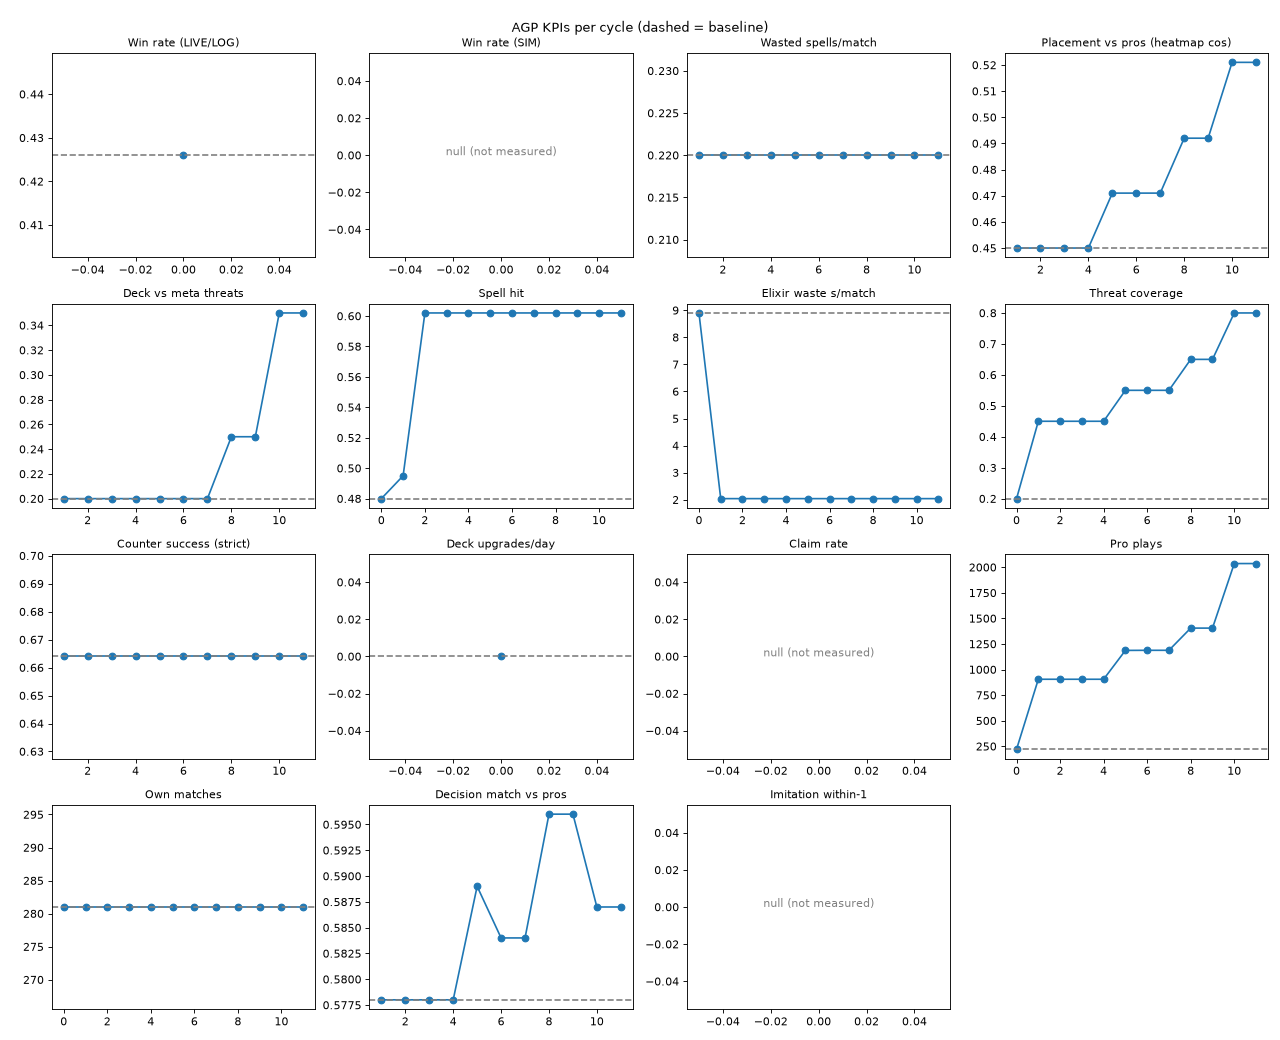
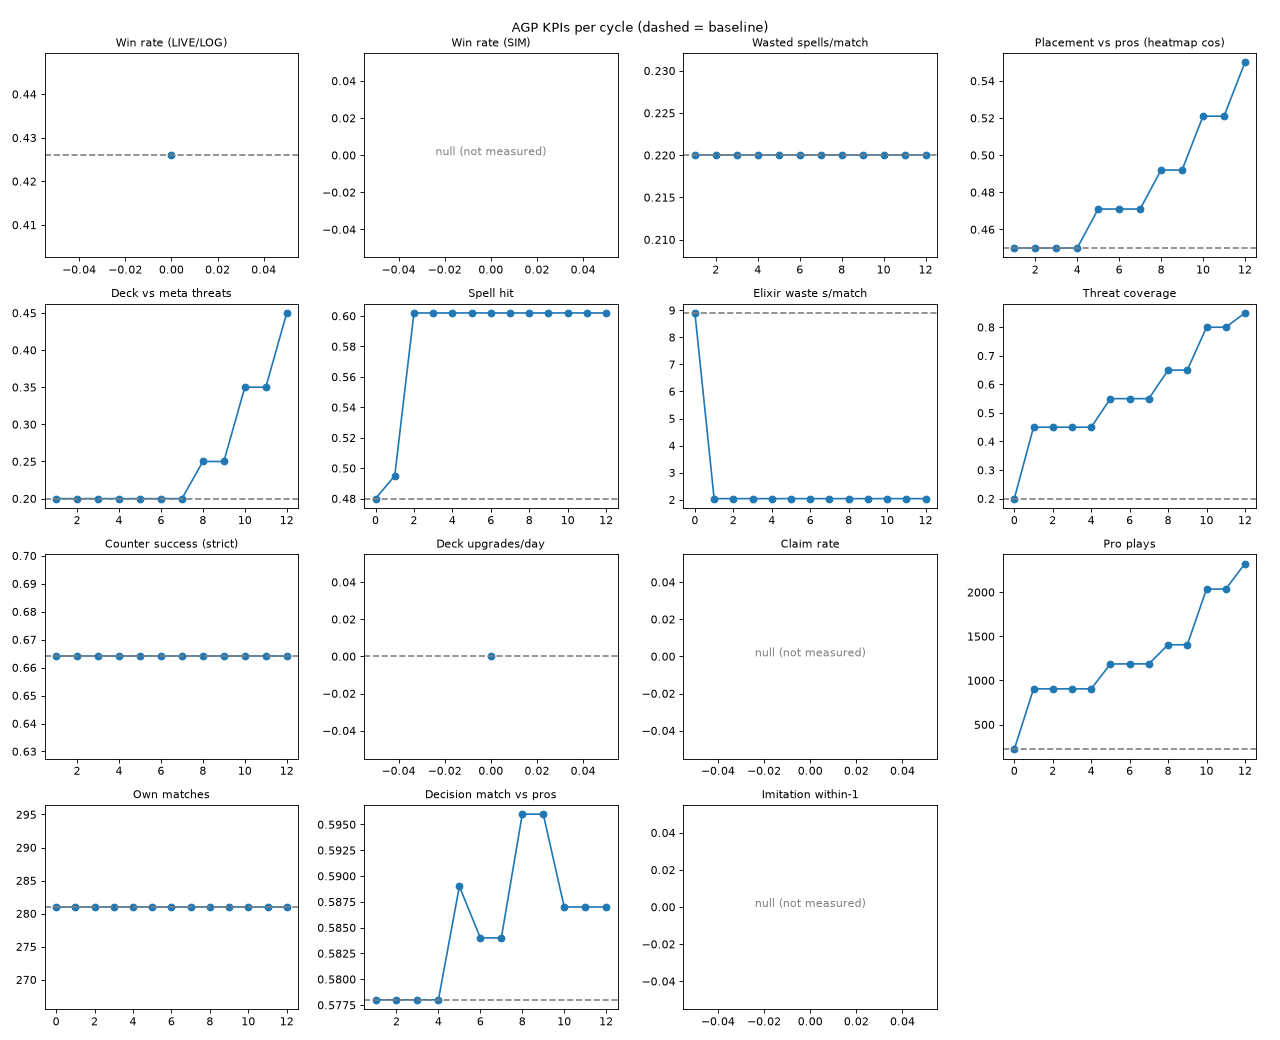
AGP progress dashboard 2026-11-01T09:30:19-08:00

diff --git a/index.html b/index.html
@@ -124,10 +124,10 @@
         <h1>AI Game Player</h1>
         <p class="lede">Progress you can watch — the AI's climb, with receipts.</p>
         <div class="meta-row">
-          <div class="chip">Cycle <strong>#11</strong></div>
-          <div class="chip">Decision <strong>REVERT</strong></div>
+          <div class="chip">Cycle <strong>#12</strong></div>
+          <div class="chip">Decision <strong>KEEP</strong></div>
           <div class="chip">Mode <strong>offline</strong></div>
-          <div class="chip">Updated <strong>2026-11-01T08:56:24-08:00</strong></div>
+          <div class="chip">Updated <strong>2026-11-01T09:26:53-08:00</strong></div>
         </div>
         <p class="lede" style="margin-top:18px;font-size:.92rem">Showing SIM / VOD / LOG metrics. Live ladder KPIs stay blank until play is greenlit — practice win rate is never mixed into live win rate.</p>
       </div>
@@ -151,7 +151,7 @@
               <th>Metric</th><th>Baseline</th><th>Current</th><th>Δ</th><th>Trend</th><th>Source</th>
             </tr>
           </thead>
-          <tbody><tr><td class="kpi-name">Win rate<div class="note">Never mix LIVE with SIM/LOG practice WR</div></td><td class="num">42.6%</td><td class="num cur"><span class="pill paused">paused</span></td><td class="num delta flat">—</td><td><span class="trend flat">flat</span></td><td><span class="src">LIVE</span></td></tr><tr><td class="kpi-name">Spell hit rate</td><td class="num">48.0%</td><td class="num cur"><span class="val">60.2%</span></td><td class="num delta up-good">+12.2 pp</td><td><span class="trend up-good">up</span></td><td><span class="src">SIM</span></td></tr><tr><td class="kpi-name">Elixir waste (s)</td><td class="num">8.9</td><td class="num cur"><span class="val">2.04</span></td><td class="num delta down-good">-6.86</td><td><span class="trend down-good">down</span></td><td><span class="src">SIM</span></td></tr><tr><td class="kpi-name">Meta/ladder threat coverage</td><td class="num">20.0%</td><td class="num cur"><span class="val">80.0%</span></td><td class="num delta up-good">+60.0 pp</td><td><span class="trend up-good">up</span></td><td><span class="src">LOG+VOD</span></td></tr><tr><td class="kpi-name">Counter success (strict)</td><td class="num">—</td><td class="num cur"><span class="val">66.4%</span></td><td class="num delta flat">—</td><td><span class="trend flat">flat</span></td><td><span class="src">LOG</span></td></tr><tr><td class="kpi-name">Deck upgrades / day</td><td class="num">0</td><td class="num cur"><span class="val">—</span></td><td class="num delta flat">—</td><td><span class="trend flat">flat</span></td><td><span class="src">LOG</span></td></tr><tr><td class="kpi-name">Reward claim rate</td><td class="num">—</td><td class="num cur"><span class="val">—</span></td><td class="num delta flat">—</td><td><span class="trend flat">flat</span></td><td><span class="src">—</span></td></tr><tr><td class="kpi-name">Pro plays learned</td><td class="num">221</td><td class="num cur"><span class="val">2036</span></td><td class="num delta up-good">+1815</td><td><span class="trend up-good">up</span></td><td><span class="src">VOD</span></td></tr><tr><td class="kpi-name">Own-match sample</td><td class="num">281</td><td class="num cur"><span class="val">281</span></td><td class="num delta flat">0</td><td><span class="trend flat">flat</span></td><td><span class="src">LOG</span></td></tr><tr><td class="kpi-name">Decision-match vs pros</td><td class="num">—</td><td class="num cur"><span class="val">58.7%</span></td><td class="num delta flat">—</td><td><span class="trend flat">flat</span></td><td><span class="src">SIM</span></td></tr><tr><td class="kpi-name">Imitation placement accuracy</td><td class="num">0.23–0.31</td><td class="num cur"><span class="val">—</span></td><td class="num delta flat">—</td><td><span class="trend flat">flat</span></td><td><span class="src">SIM</span></td></tr><tr><td class="kpi-name">Placement accuracy (SIM)</td><td class="num">—</td><td class="num cur"><span class="val">52.1%</span></td><td class="num delta flat">—</td><td><span class="trend flat">flat</span></td><td><span class="src">SIM+VOD</span></td></tr><tr><td class="kpi-name">Deck building vs meta</td><td class="num">—</td><td class="num cur"><span class="val">35.0%</span></td><td class="num delta flat">—</td><td><span class="trend flat">flat</span></td><td><span class="src">LOG+WEB</span></td></tr></tbody>
+          <tbody><tr><td class="kpi-name">Win rate<div class="note">Never mix LIVE with SIM/LOG practice WR</div></td><td class="num">42.6%</td><td class="num cur"><span class="pill paused">paused</span></td><td class="num delta flat">—</td><td><span class="trend flat">flat</span></td><td><span class="src">LIVE</span></td></tr><tr><td class="kpi-name">Spell hit rate</td><td class="num">48.0%</td><td class="num cur"><span class="val">60.2%</span></td><td class="num delta up-good">+12.2 pp</td><td><span class="trend up-good">up</span></td><td><span class="src">SIM</span></td></tr><tr><td class="kpi-name">Elixir waste (s)</td><td class="num">8.9</td><td class="num cur"><span class="val">2.04</span></td><td class="num delta down-good">-6.86</td><td><span class="trend down-good">down</span></td><td><span class="src">SIM</span></td></tr><tr><td class="kpi-name">Meta/ladder threat coverage</td><td class="num">20.0%</td><td class="num cur"><span class="val">85.0%</span></td><td class="num delta up-good">+65.0 pp</td><td><span class="trend up-good">up</span></td><td><span class="src">LOG+VOD</span></td></tr><tr><td class="kpi-name">Counter success (strict)</td><td class="num">—</td><td class="num cur"><span class="val">66.4%</span></td><td class="num delta flat">—</td><td><span class="trend flat">flat</span></td><td><span class="src">LOG</span></td></tr><tr><td class="kpi-name">Deck upgrades / day</td><td class="num">0</td><td class="num cur"><span class="val">—</span></td><td class="num delta flat">—</td><td><span class="trend flat">flat</span></td><td><span class="src">LOG</span></td></tr><tr><td class="kpi-name">Reward claim rate</td><td class="num">—</td><td class="num cur"><span class="val">—</span></td><td class="num delta flat">—</td><td><span class="trend flat">flat</span></td><td><span class="src">—</span></td></tr><tr><td class="kpi-name">Pro plays learned</td><td class="num">221</td><td class="num cur"><span class="val">2325</span></td><td class="num delta up-good">+2104</td><td><span class="trend up-good">up</span></td><td><span class="src">VOD</span></td></tr><tr><td class="kpi-name">Own-match sample</td><td class="num">281</td><td class="num cur"><span class="val">281</span></td><td class="num delta flat">0</td><td><span class="trend flat">flat</span></td><td><span class="src">LOG</span></td></tr><tr><td class="kpi-name">Decision-match vs pros</td><td class="num">—</td><td class="num cur"><span class="val">58.7%</span></td><td class="num delta flat">—</td><td><span class="trend flat">flat</span></td><td><span class="src">SIM</span></td></tr><tr><td class="kpi-name">Imitation placement accuracy</td><td class="num">0.23–0.31</td><td class="num cur"><span class="val">—</span></td><td class="num delta flat">—</td><td><span class="trend flat">flat</span></td><td><span class="src">SIM</span></td></tr><tr><td class="kpi-name">Placement accuracy (SIM)</td><td class="num">—</td><td class="num cur"><span class="val">55.0%</span></td><td class="num delta flat">—</td><td><span class="trend flat">flat</span></td><td><span class="src">SIM+VOD</span></td></tr><tr><td class="kpi-name">Deck building vs meta</td><td class="num">—</td><td class="num cur"><span class="val">45.0%</span></td><td class="num delta flat">—</td><td><span class="trend flat">flat</span></td><td><span class="src">LOG+WEB</span></td></tr></tbody>
         </table>
       </div>
     </section>
@@ -163,7 +163,7 @@
           <p>Placement, deck quality, counters, spell aim, elixir, upgrades</p>
         </div>
       </div>
-      <div class="axes"><div class="axis-card"><div class="axis-label">Placement accuracy</div><div class="axis-value">52.1%</div><div class="axis-meta"><span class="src">SIM+VOD</span> · SIM heatmap / VOD overlays</div></div><div class="axis-card"><div class="axis-label">Deck building vs meta</div><div class="axis-value">35.0%</div><div class="axis-meta"><span class="src">LOG+WEB</span> · Alignment to seen-opponent / meta plans</div></div><div class="axis-card"><div class="axis-label">Counters</div><div class="axis-value">66.4%</div><div class="axis-meta"><span class="src">LOG</span> · Strict counter success</div></div><div class="axis-card"><div class="axis-label">Spell aim</div><div class="axis-value">60.2%</div><div class="axis-meta"><span class="src">SIM</span> · Spell impact audit / SIM casts</div></div><div class="axis-card"><div class="axis-label">Movement / elixir</div><div class="axis-value">2.04</div><div class="axis-meta"><span class="src">SIM</span> · Seconds elixir wasted (lower better)</div></div><div class="axis-card"><div class="axis-label">Upgrades / rewards</div><div class="axis-value">paused</div><div class="axis-meta"><span class="src">LIVE</span> · LIVE paused until James greenlights play</div></div></div>
+      <div class="axes"><div class="axis-card"><div class="axis-label">Placement accuracy</div><div class="axis-value">55.0%</div><div class="axis-meta"><span class="src">SIM+VOD</span> · SIM heatmap / VOD overlays</div></div><div class="axis-card"><div class="axis-label">Deck building vs meta</div><div class="axis-value">45.0%</div><div class="axis-meta"><span class="src">LOG+WEB</span> · Alignment to seen-opponent / meta plans</div></div><div class="axis-card"><div class="axis-label">Counters</div><div class="axis-value">66.4%</div><div class="axis-meta"><span class="src">LOG</span> · Strict counter success</div></div><div class="axis-card"><div class="axis-label">Spell aim</div><div class="axis-value">60.2%</div><div class="axis-meta"><span class="src">SIM</span> · Spell impact audit / SIM casts</div></div><div class="axis-card"><div class="axis-label">Movement / elixir</div><div class="axis-value">2.04</div><div class="axis-meta"><span class="src">SIM</span> · Seconds elixir wasted (lower better)</div></div><div class="axis-card"><div class="axis-label">Upgrades / rewards</div><div class="axis-value">paused</div><div class="axis-meta"><span class="src">LIVE</span> · LIVE paused until James greenlights play</div></div></div>
     </section>
 
     <section>
@@ -203,7 +203,7 @@
     </footer>
   </div>
 <script>
-const HIST = [{"cycle": 0, "spell_hit": 0.48, "counter": null, "placement": null, "decision": null, "elixir": 8.9, "decision_tag": "BASELINE"}, {"cycle": 1, "spell_hit": 0.495, "counter": 0.664, "placement": 0.45, "decision": 0.578, "elixir": 2.04, "decision_tag": "KEEP"}, {"cycle": 2, "spell_hit": 0.602, "counter": 0.664, "placement": 0.45, "decision": 0.578, "elixir": 2.04, "decision_tag": "REVERT"}, {"cycle": 3, "spell_hit": 0.602, "counter": 0.664, "placement": 0.45, "decision": 0.578, "elixir": 2.04, "decision_tag": "KEEP"}, {"cycle": 4, "spell_hit": 0.602, "counter": 0.664, "placement": 0.45, "decision": 0.578, "elixir": 2.04, "decision_tag": "REVERT"}, {"cycle": 5, "spell_hit": 0.602, "counter": 0.664, "placement": 0.471, "decision": 0.589, "elixir": 2.04, "decision_tag": "KEEP"}, {"cycle": 6, "spell_hit": 0.602, "counter": 0.664, "placement": 0.471, "decision": 0.584, "elixir": 2.04, "decision_tag": "KEEP"}, {"cycle": 7, "spell_hit": 0.602, "counter": 0.664, "placement": 0.471, "decision": 0.584, "elixir": 2.04, "decision_tag": "REVERT"}, {"cycle": 8, "spell_hit": 0.602, "counter": 0.664, "placement": 0.492, "decision": 0.596, "elixir": 2.04, "decision_tag": "KEEP"}, {"cycle": 9, "spell_hit": 0.602, "counter": 0.664, "placement": 0.492, "decision": 0.596, "elixir": 2.04, "decision_tag": "REVERT"}, {"cycle": 10, "spell_hit": 0.602, "counter": 0.664, "placement": 0.521, "decision": 0.587, "elixir": 2.04, "decision_tag": "KEEP"}, {"cycle": 11, "spell_hit": 0.602, "counter": 0.664, "placement": 0.521, "decision": 0.587, "elixir": 2.04, "decision_tag": "REVERT"}];
+const HIST = [{"cycle": 0, "spell_hit": 0.48, "counter": null, "placement": null, "decision": null, "elixir": 8.9, "decision_tag": "BASELINE"}, {"cycle": 1, "spell_hit": 0.495, "counter": 0.664, "placement": 0.45, "decision": 0.578, "elixir": 2.04, "decision_tag": "KEEP"}, {"cycle": 2, "spell_hit": 0.602, "counter": 0.664, "placement": 0.45, "decision": 0.578, "elixir": 2.04, "decision_tag": "REVERT"}, {"cycle": 3, "spell_hit": 0.602, "counter": 0.664, "placement": 0.45, "decision": 0.578, "elixir": 2.04, "decision_tag": "KEEP"}, {"cycle": 4, "spell_hit": 0.602, "counter": 0.664, "placement": 0.45, "decision": 0.578, "elixir": 2.04, "decision_tag": "REVERT"}, {"cycle": 5, "spell_hit": 0.602, "counter": 0.664, "placement": 0.471, "decision": 0.589, "elixir": 2.04, "decision_tag": "KEEP"}, {"cycle": 6, "spell_hit": 0.602, "counter": 0.664, "placement": 0.471, "decision": 0.584, "elixir": 2.04, "decision_tag": "KEEP"}, {"cycle": 7, "spell_hit": 0.602, "counter": 0.664, "placement": 0.471, "decision": 0.584, "elixir": 2.04, "decision_tag": "REVERT"}, {"cycle": 8, "spell_hit": 0.602, "counter": 0.664, "placement": 0.492, "decision": 0.596, "elixir": 2.04, "decision_tag": "KEEP"}, {"cycle": 9, "spell_hit": 0.602, "counter": 0.664, "placement": 0.492, "decision": 0.596, "elixir": 2.04, "decision_tag": "REVERT"}, {"cycle": 10, "spell_hit": 0.602, "counter": 0.664, "placement": 0.521, "decision": 0.587, "elixir": 2.04, "decision_tag": "KEEP"}, {"cycle": 11, "spell_hit": 0.602, "counter": 0.664, "placement": 0.521, "decision": 0.587, "elixir": 2.04, "decision_tag": "REVERT"}, {"cycle": 12, "spell_hit": 0.602, "counter": 0.664, "placement": 0.55, "decision": 0.587, "elixir": 2.04, "decision_tag": "KEEP"}];
 function drawLine(canvas, series, colors) {
   const dpr = window.devicePixelRatio || 1;
   const rect = canvas.getBoundingClientRect();
